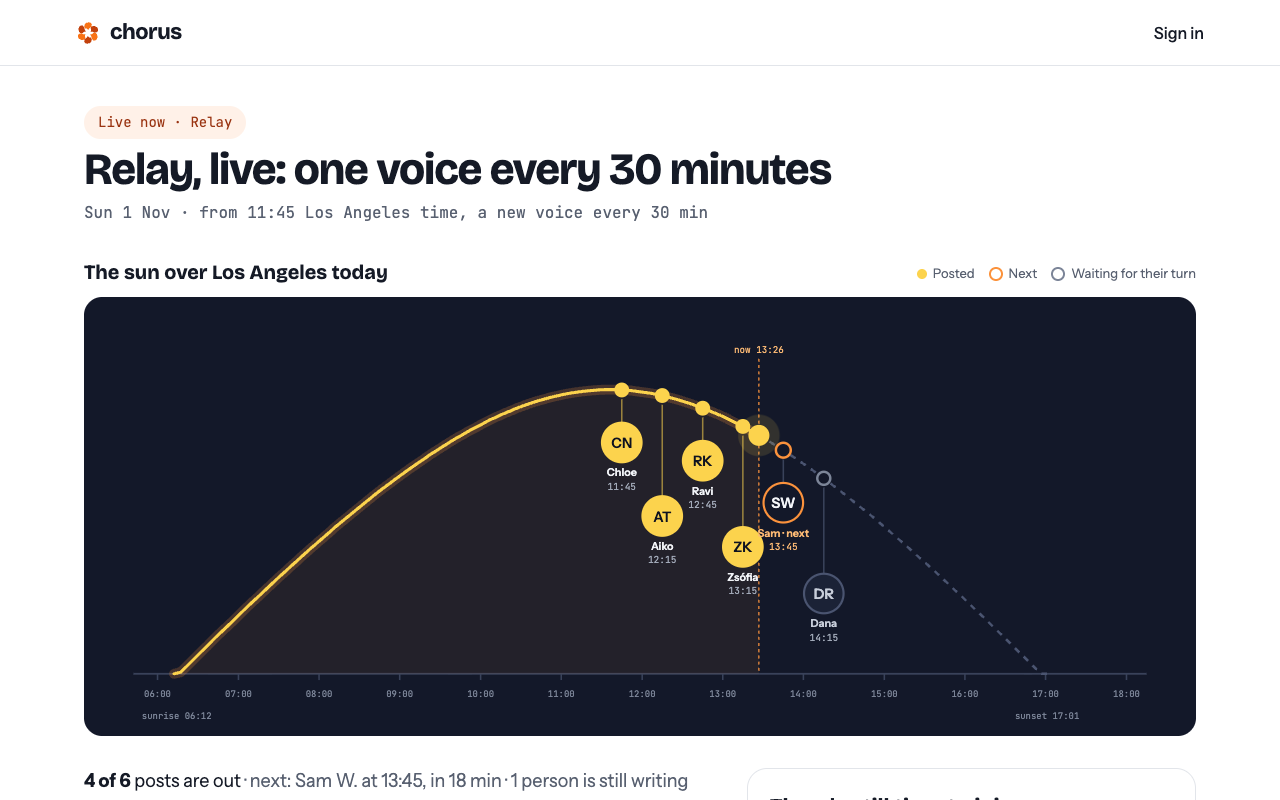
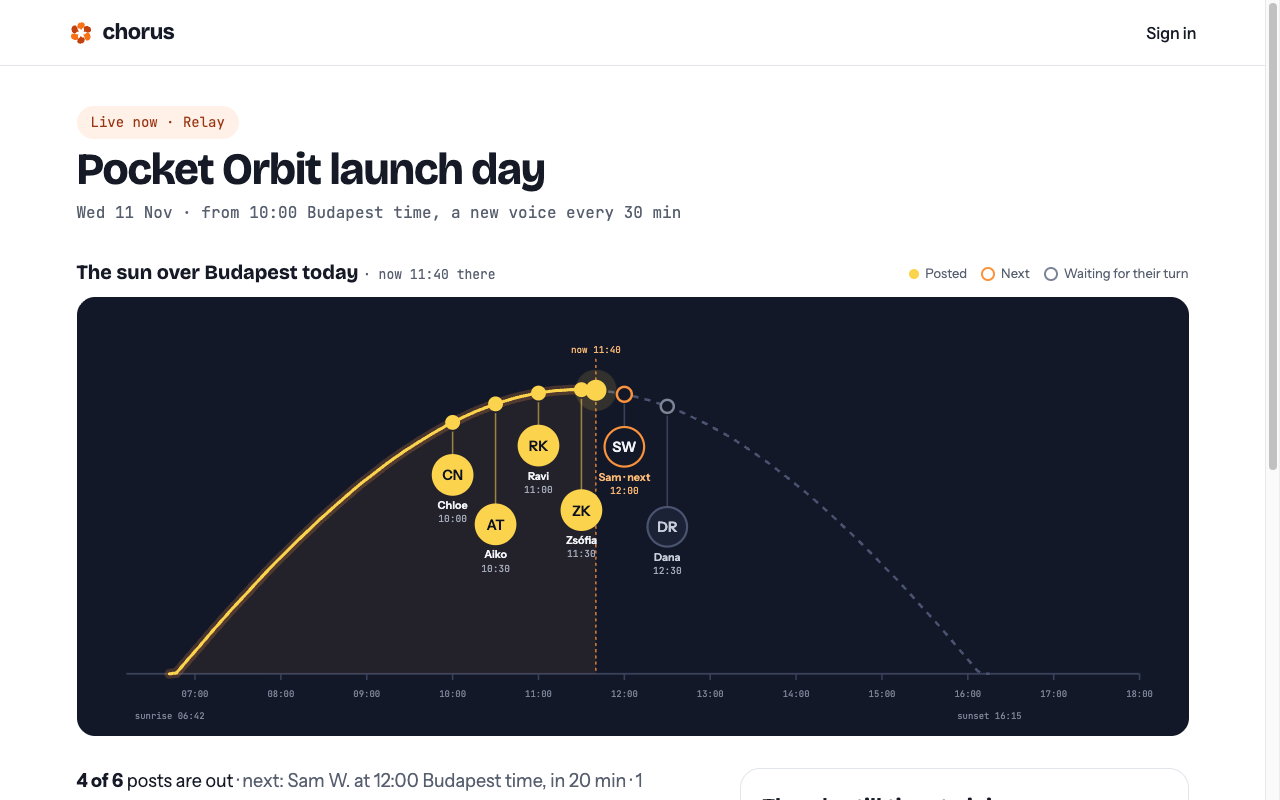
docs: real-like Choruses in the mock data and the README screenshots

diff --git a/scripts/mock-data.ts b/scripts/mock-data.ts
@@ -3,7 +3,8 @@
 // everything of the mock people, also the Choruses made by hand while signed in as one of them.
 //
 // The live ones are built around the current time, so the wall is in the middle of its day whenever
-// the script runs. Their time is not 09:00, but whatever puts "now" where it should be.
+// the script runs. Their time is not 09:00, but whatever puts "now" where it should be. Each Chorus is a
+// made-up team with its own news, so the pages look like they will with real people.
 import { isMock } from "../src/buffer.ts";
 import {
   type Chorus,
@@ -37,13 +38,14 @@ function dayIn(at: number, timeZone: string): string {
   return new Intl.DateTimeFormat("en-CA", { timeZone }).format(at);
 }
 
-// The Chorus time that makes this person's post go out about `minutes` from now.
-function aroundNow(timeZone: string, minutes: number) {
+// The Chorus time that makes this person's post go out about `minutes` from now, rounded down to `step`
+// minutes.
+function aroundNow(timeZone: string, minutes: number, step = 5) {
   const at = now + minutes * MINUTE;
   const [hour, minute] = localTime(new Date(at), timeZone)
     .split(":")
     .map(Number);
-  const rounded = `${String(hour).padStart(2, "0")}:${String(minute - (minute % 5)).padStart(2, "0")}`;
+  const rounded = `${String(hour).padStart(2, "0")}:${String(minute - (minute % step)).padStart(2, "0")}`;
   return { day: dayIn(at, timeZone), localTime: rounded };
 }
 
@@ -81,9 +83,19 @@ const removed = (
 await (await choruses()).deleteMany({ ownerId: { $in: mockUsers } });
 await deleteImages({ ownerId: { $in: mockUsers } });
 
-type Plan = {
-  id: string;
+// What a Chorus is about. post() is what each person wrote, from their first name.
+type Story = {
   title: string;
+  facts: string[];
+  link: string;
+  hashtag: string;
+  question: string;
+  post: (first: string) => string;
+};
+
+type Plan = Story & {
+  id: string;
+  state: string; // for the list at the end
   owner: string;
   day: string;
   localTime: string;
@@ -111,7 +123,18 @@ const yesterday = dayIn(now - 86_400_000, "UTC");
 const plans: Plan[] = [
   {
     id: "map-soon",
-    title: "Coming up: our new office in Lisbon",
+    state: "Coming up, with one person still writing",
+    title: "Northwind opens its Lisbon office",
+    facts: [
+      "The Lisbon office opens on Monday",
+      "It's next to the river, in Cais do Sodré",
+      "There's room for 40 people",
+    ],
+    link: "https://northwind.example/lisbon",
+    hashtag: "#NorthwindLisbon",
+    question: "What are you looking forward to in the new office?",
+    post: (first) =>
+      `Our Lisbon office opens on Monday, right next to the river. ${first} here: I've worked from my kitchen for two years, so I'm counting the days. #NorthwindLisbon`,
     owner: "mock_sam",
     day: plusDays(dayIn(now, "UTC"), 4),
     localTime: "09:00",
@@ -119,7 +142,18 @@ const plans: Plan[] = [
   },
   {
     id: "map-start",
-    title: "Live, nobody posted yet",
+    state: "Live, nobody posted yet",
+    title: "Brightline 1.0 is out",
+    facts: [
+      "Brightline 1.0 is out today",
+      "It's open source, under the MIT license",
+      "120 people sent a pull request on the way to 1.0",
+    ],
+    link: "https://brightline.example/1-0",
+    hashtag: "#Brightline1",
+    question: "What was your first pull request to Brightline?",
+    post: (first) =>
+      `Brightline 1.0 is out. My first pull request fixed a typo in the README, and here we are. 120 people got it to 1.0, ${first} is proud to be one of them. #Brightline1`,
     owner: "mock_aiko",
     ...aroundNow("Australia/Sydney", 40),
     people: [
@@ -135,9 +169,20 @@ const plans: Plan[] = [
   },
   {
     id: "map-half",
-    title: "Live, halfway round the world",
+    state: "Live, halfway round the world",
+    title: "Tidepool 2.0 is out",
+    facts: [
+      "Tidepool 2.0 is out today",
+      "Notes now sync offline, on every device",
+      "It's free for teams of up to 10 people",
+    ],
+    link: "https://tidepool.example/2-0",
+    hashtag: "#Tidepool2",
+    question: "What did you build or fix for 2.0?",
+    post: (first) =>
+      `Tidepool 2.0 is out today. I spent the summer on offline sync, so your notes now work on a plane too. Free for teams of up to 10. ${first}, very tired and very happy. #Tidepool2`,
     owner: "mock_ravi",
-    ...aroundNow("Europe/Budapest", -10),
+    ...aroundNow("Europe/Budapest", -10, 60),
     people: [
       ["mock_chloe"],
       ["mock_aiko"],
@@ -151,7 +196,18 @@ const plans: Plan[] = [
   },
   {
     id: "map-end",
-    title: "Live, one post to go",
+    state: "Live, one post to go",
+    title: "Kettle is hiring 5 engineers",
+    facts: [
+      "Kettle is hiring 5 engineers",
+      "The jobs are remote, from anywhere in Europe or the Americas",
+      "Applications are open until December 1",
+    ],
+    link: "https://kettle.example/jobs",
+    hashtag: "#KettleHiring",
+    question: "Why would you tell a friend to work here?",
+    post: (first) =>
+      `We're hiring 5 engineers at Kettle, fully remote. ${first} here: the best part is a team that writes things down, so nobody needs to be online at 3 am. Open until December 1. #KettleHiring`,
     owner: "mock_dana",
     ...aroundNow("America/Los_Angeles", 30),
     people: [
@@ -167,7 +223,18 @@ const plans: Plan[] = [
   },
   {
     id: "map-done",
-    title: "Done, everyone posted",
+    state: "Done, everyone posted",
+    title: "The Harbor Conf 2026 speakers are in",
+    facts: [
+      "Harbor Conf is on March 12 and 13, 2027",
+      "There are 24 talks, all in English",
+      "Tickets go on sale on December 1",
+    ],
+    link: "https://harborconf.example/speakers",
+    hashtag: "#HarborConf",
+    question: "What's your talk about, in one sentence?",
+    post: (first) =>
+      `I'm speaking at Harbor Conf in March! ${first}'s talk is about the bug that took me a week to find, and the one line that fixed it. Tickets from December 1. #HarborConf`,
     owner: "mock_zsofia",
     day: plusDays(yesterday, -2),
     localTime: "09:00",
@@ -184,7 +251,18 @@ const plans: Plan[] = [
   },
   {
     id: "map-missed",
-    title: "Done, some posts didn't go out",
+    state: "Done, some posts didn't go out",
+    title: "Paperclip turns 5",
+    facts: [
+      "Paperclip is 5 years old today",
+      "It started as a weekend project",
+      "Over 2,000 teams use it every day",
+    ],
+    link: "https://paperclip.example/five",
+    hashtag: "#Paperclip5",
+    question: "What do you remember from your first week?",
+    post: (first) =>
+      `Paperclip is 5 today. It started as a weekend project, and now 2,000 teams use it every day. ${first} still remembers the first customer email. #Paperclip5`,
     owner: "mock_mark",
     day: plusDays(yesterday, -3),
     localTime: "09:00",
@@ -200,9 +278,20 @@ const plans: Plan[] = [
   },
   {
     id: "relay-live",
-    title: "Relay, live: one voice every 30 minutes",
+    state: "Relay, live: one voice every 30 minutes",
+    title: "Pocket Orbit launch day",
+    facts: [
+      "Pocket Orbit is out today on Switch and Steam",
+      "It costs 12 euros",
+      "A team of 7 made it in 2 years",
+    ],
+    link: "https://littlerobot.example/pocket-orbit",
+    hashtag: "#PocketOrbit",
+    question: "What's your favorite level, and why?",
+    post: (first) =>
+      `Pocket Orbit is out today on Switch and Steam! Seven of us made it in two years. ${first}'s favorite level is the one where gravity turns off halfway. #PocketOrbit`,
     owner: "mock_mark",
-    ...aroundNow(relayZone, -100),
+    ...aroundNow(relayZone, -100, 30),
     relay: { tz: relayZone, gap: 30 },
     people: [
       ["mock_chloe"],
@@ -216,7 +305,18 @@ const plans: Plan[] = [
   },
   {
     id: "relay-full",
-    title: "Relay, full: one slot, already taken",
+    state: "Relay, full: one slot, already taken",
+    title: "Danube Devs meetup #42 tonight",
+    facts: [
+      "Danube Devs #42 is tonight at 18:30",
+      "Two talks: one on testing, one on accessibility",
+      "Pizza is on the house",
+    ],
+    link: "https://danubedevs.example/42",
+    hashtag: "#DanubeDevs",
+    question: "Why should someone come tonight?",
+    post: (first) =>
+      `Danube Devs #42 is tonight at 18:30: a talk on testing, one on accessibility, and pizza. ${first} will be there early. #DanubeDevs`,
     owner: "mock_maya",
     day: plusDays(dayIn(now, "Europe/Budapest"), 1),
     localTime: "17:00",
@@ -229,7 +329,18 @@ const plans: Plan[] = [
   },
   {
     id: "relay-done",
-    title: "Relay, done",
+    state: "Relay, done",
+    title: "Kiosk Bakery turns one",
+    facts: [
+      "Kiosk Bakery opened one year ago today",
+      "It bakes 300 loaves every morning",
+      "Every coffee is half price today",
+    ],
+    link: "https://kioskbakery.example/one",
+    hashtag: "#KioskOne",
+    question: "What's the one thing everyone should try?",
+    post: (first) =>
+      `Kiosk Bakery is one year old today, and every coffee is half price. ${first}'s tip: the cardamom bun, before 9, before it's gone. #KioskOne`,
     owner: "mock_zsofia",
     day: plusDays(dayIn(now, "Europe/Budapest"), -3),
     localTime: "09:00",
@@ -254,15 +365,11 @@ for (const plan of plans) {
     relayGapMin: plan.relay?.gap,
     createdAt: new Date(now),
     title: plan.title,
-    facts: [
-      "The new office opens on Monday",
-      "It's in Lisbon, next to the river",
-      "There's room for 40 people",
-    ],
-    link: "https://example.com/lisbon",
-    hashtags: ["#LisbonOffice"],
+    facts: plan.facts,
+    link: plan.link,
+    hashtags: [plan.hashtag],
     avoid: [],
-    questions: ["What will you miss least about the old office?"],
+    questions: [plan.question],
     tone: "any",
     day: plan.day,
     localTime: plan.localTime,
@@ -302,7 +409,7 @@ for (const plan of plans) {
     const scheduled = {
       ...base,
       relaySlot,
-      text: `Our new office in Lisbon opens on Monday. ${person.name.split(" ")[0]} here, and I can't wait to see the river from my desk. #LisbonOffice`,
+      text: plan.post(person.name.split(" ")[0]),
       bufferPostId: seededPostId(personId, dueAt),
       dueAt,
     };
@@ -336,6 +443,6 @@ console.log(
   `Removed ${removed} old mock posts. ${(await (await users()).countDocuments({ providerAccountId: /^mock_/ })) || 0} mock people in ${db().databaseName}.`,
 );
 for (const plan of plans) {
-  console.log(`  https://localhost:${port}/c/${plan.id}  ${plan.title}`);
+  console.log(`  https://localhost:${port}/c/${plan.id}  ${plan.state}`);
 }
 await closeDb();
